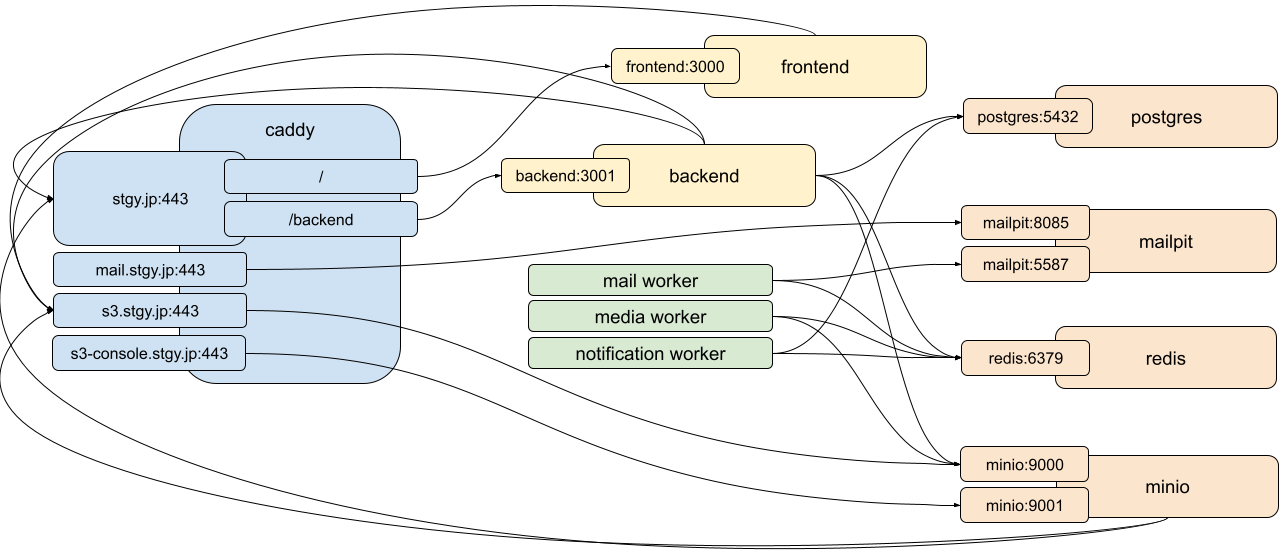
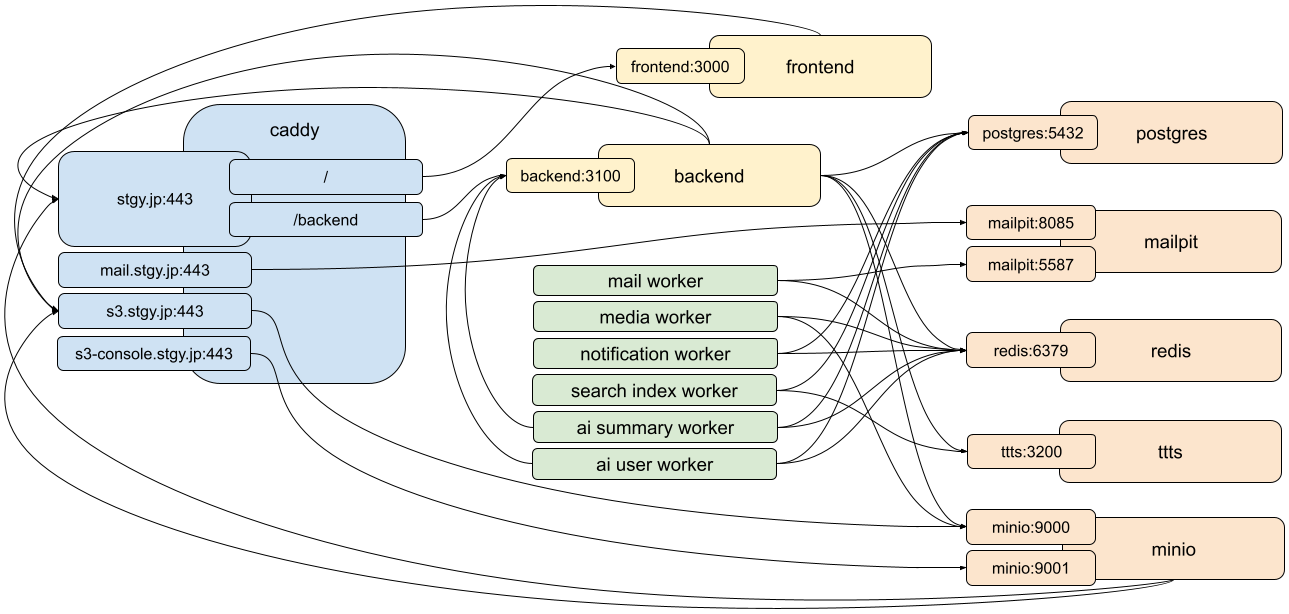
Add scripts to deply ttts

diff --git a/frontend/src/app/health/route.ts b/frontend/src/app/health/route.ts
@@ -1,0 +1,5 @@
+import { NextResponse } from 'next/server';
+
+export async function GET() {
+  return NextResponse.json({ result: 'ok' }, { status: 200 });
+}
